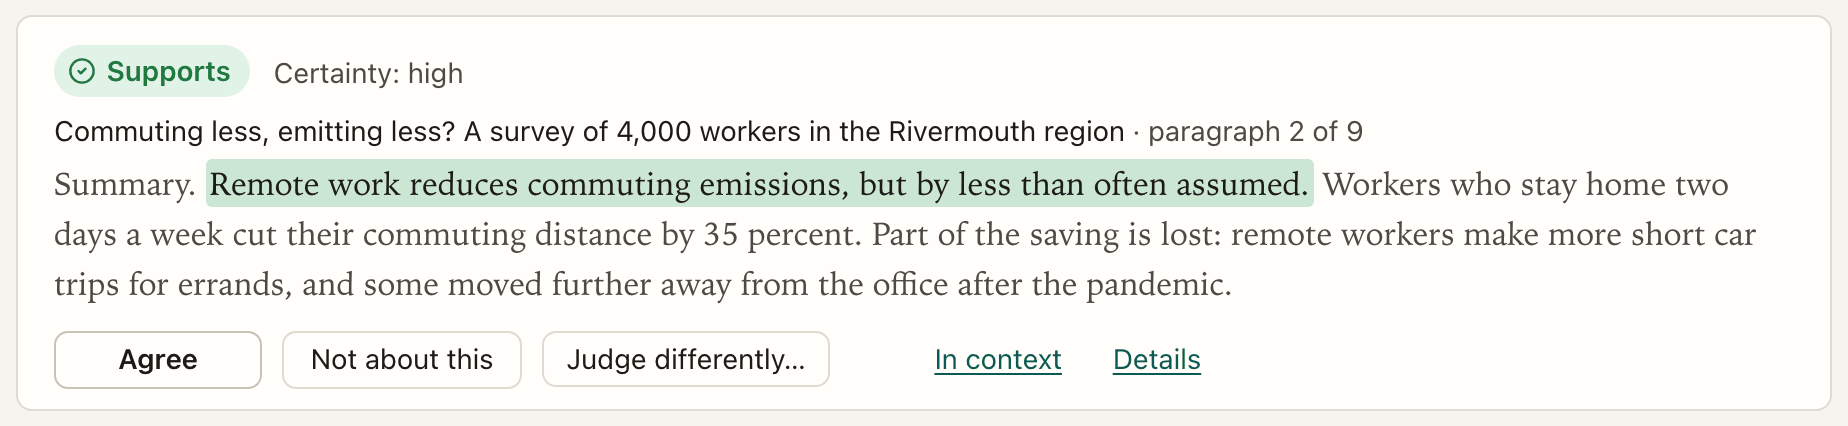
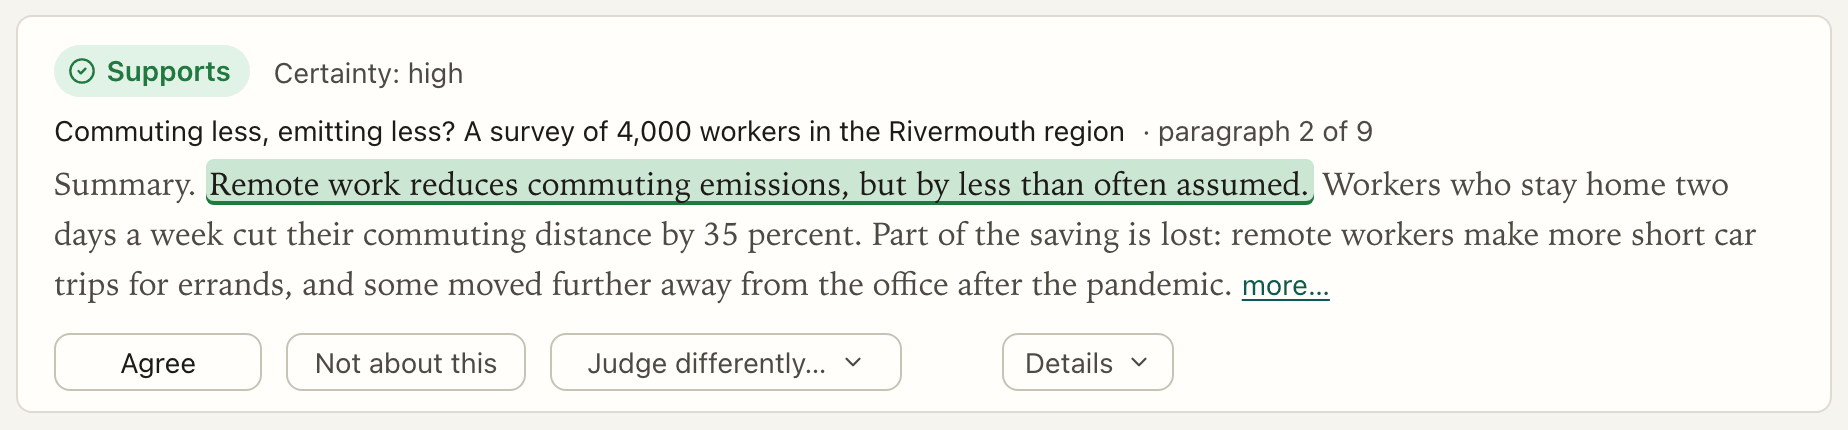
Manual pictures: an element's shot clips the page where the element is
bounding_box() is in window coordinates and a full-page clip in page coordinates; once the page had scrolled,
excerpt-card.png showed the Evidence head above the card. Retaken with more… on it.

ENLENS-Commit: a48737f030ae91c5b43c1ae500cf8b9589187dba

diff --git a/tools/manual_screenshots.py b/tools/manual_screenshots.py
@@ -323,10 +323,11 @@ def take(page, what, path: Path) -> None:
             "x": SIDEBAR, "y": max(0, top), "width": page.viewport_size["width"] - SIDEBAR, "height": h})
     else:                                                   # a locator: its box with a little air
         what.scroll_into_view_if_needed()
-        box = what.bounding_box()
+        box = what.bounding_box()   # in the window's coordinates; a full-page clip takes the page's
+        sx, sy = page.evaluate("[window.scrollX, window.scrollY]")
         pad = 8
         page.screenshot(path=str(path), full_page=True, clip={
-            "x": max(0, box["x"] - pad), "y": max(0, box["y"] - pad), "width": box["width"] + 2 * pad, "height": box["height"] + 2 * pad})
+            "x": max(0, sx + box["x"] - pad), "y": max(0, sy + box["y"] - pad), "width": box["width"] + 2 * pad, "height": box["height"] + 2 * pad})
 
 
 QUANTISE = (
